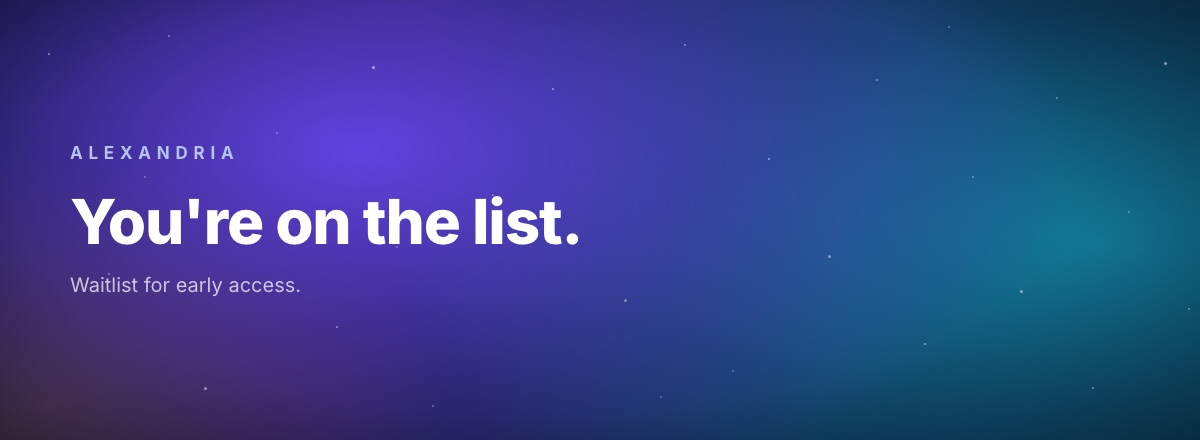
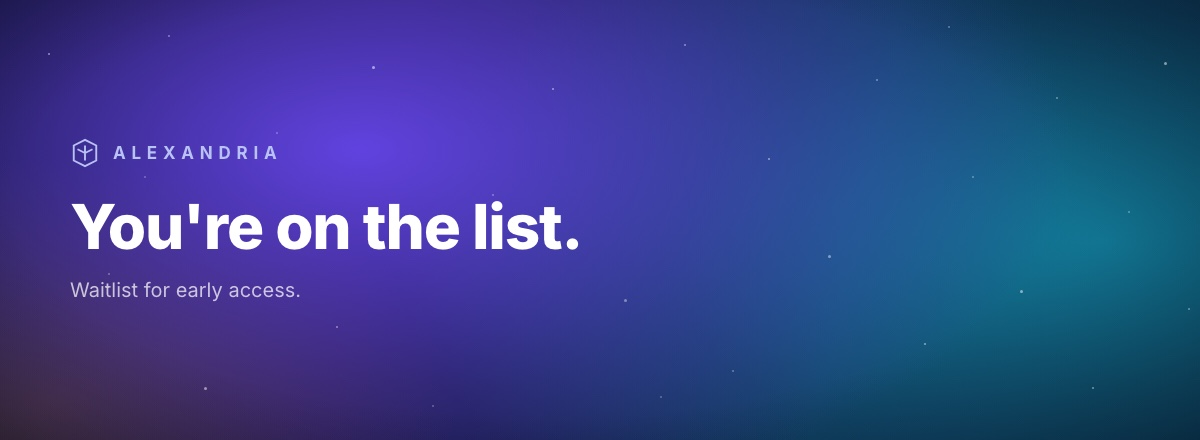
feat(email): carry both marks — Alexandria in the hero, both in the footer
The email named Alexandria and IFFTU in text but showed neither mark. Now
the hexagon sits beside the wordmark in the hero art, and the footer carries
a lockup above the links: the hexagon with ALEXANDRIA, the `//` with AN
IFFTU PROJECT.

Neither mark is invented. The hexagon is the one from the site nav; the `//`
is what ifftu.dev declares as its logo in its Organization schema — its own
favicon, in its own red — with the black plate dropped so it sits on the
email's background instead of a square of its own.

Both are rendered to PNG at 3x by scripts/generate-email-logos.py, because
Gmail strips inline SVG, and sized with HTML width/height attributes because
Outlook ignores CSS sizing on images. Alt text carries "Alexandria" and
"IFFTU" for the many clients that block images by default — which is also
why the words are real text beside the marks rather than baked into them.

The hero mark is drawn into the artwork instead, since that becomes a flat
JPEG and cannot reference anything.

Changed region(s): [[0.0617, 0.4432, 0.4933, 0.5909], [0.0617, 0.6205, 0.2467, 0.6795], [0.0617, 0.325, 0.2467, 0.3841]]

diff --git a/netlify/email/confirmation.ts b/netlify/email/confirmation.ts
@@ -230,6 +230,24 @@ const TEMPLATE = `<!DOCTYPE html>
 
     <!-- FOOTER -->
     <tr><td style="height:22px;line-height:22px;font-size:0;">&nbsp;</td></tr>
+    <tr><td class="px" align="center" style="padding:0 40px 14px 40px;">
+      <table role="presentation" cellpadding="0" cellspacing="0" border="0" style="margin:0 auto;">
+        <tr>
+          <td style="padding:0 9px 0 0;" valign="middle">
+            <img src="https://alexandria.ifftu.dev/email/email-mark-alexandria.png" width="22" height="22" alt="Alexandria" style="display:block;width:22px;height:22px;border:0;">
+          </td>
+          <td style="padding:0 18px 0 0;font-family:Arial,Helvetica,sans-serif;font-size:12px;line-height:20px;color:#93A3BC;letter-spacing:0.06em;" valign="middle">
+            ALEXANDRIA
+          </td>
+          <td style="padding:0 8px 0 0;" valign="middle">
+            <img src="https://alexandria.ifftu.dev/email/email-mark-ifftu.png" width="20" height="20" alt="IFFTU" style="display:block;width:20px;height:20px;border:0;">
+          </td>
+          <td style="font-family:Arial,Helvetica,sans-serif;font-size:12px;line-height:20px;color:#93A3BC;letter-spacing:0.06em;" valign="middle">
+            AN IFFTU PROJECT
+          </td>
+        </tr>
+      </table>
+    </td></tr>
     <tr><td class="px" align="center" style="padding:0 40px;">
       <p style="margin:0 0 10px 0;font-family:Arial,Helvetica,sans-serif;font-size:12px;line-height:20px;color:#93A3BC;">
         <a href="https://alexandria.ifftu.dev" style="color:#93A3BC;text-decoration:underline;">alexandria.ifftu.dev</a>

diff --git a/scripts/generate-email-logos.py b/scripts/generate-email-logos.py
@@ -1,0 +1,79 @@
+#!/usr/bin/env python3
+"""
+Render the two marks the confirmation email uses.
+
+    python3 scripts/generate-email-logos.py
+
+Mail clients do not render inline SVG — Gmail strips it outright — so the marks
+have to be raster, absolute-URL images. Both are drawn at 3x the size they are
+displayed at, on transparent backgrounds, so they stay crisp on retina and sit on
+whatever the surrounding table cell is coloured.
+
+Sources, so neither is invented here:
+  Alexandria  the hexagon from the site nav (layouts/landing.vue)
+  IFFTU       the `//` mark ifftu.dev declares as its logo in Organization
+              schema (its favicon.svg), in the same red
+"""
+import pathlib
+import shutil
+import subprocess
+import sys
+
+ROOT = pathlib.Path(__file__).resolve().parent.parent
+OUT = ROOT / 'public' / 'email'
+CHROME = '/Applications/Google Chrome.app/Contents/MacOS/Google Chrome'
+
+SIZE = 96  # displayed at 32px, so 3x
+
+ALEXANDRIA = """
+<svg width="96" height="96" viewBox="0 0 32 32" fill="none"
+     xmlns="http://www.w3.org/2000/svg">
+  <path d="M16 2L4 8v16l12 6 12-6V8L16 2z" stroke="#8B85FF" stroke-width="2" fill="none"/>
+  <path d="M16 8v16M8 12l8 4 8-4" stroke="#8B85FF" stroke-width="2"/>
+</svg>
+"""
+
+# Their own favicon draws `//` in monospace bold; keeping the glyph and the red,
+# dropping the black plate so it sits on the email's own background.
+IFFTU = """
+<svg width="96" height="96" viewBox="0 0 32 32" xmlns="http://www.w3.org/2000/svg">
+  <text x="2" y="24" font-family="ui-monospace, SFMono-Regular, Menlo, monospace"
+        font-weight="bold" font-size="21" fill="#FF2200">//</text>
+</svg>
+"""
+
+
+def render(name: str, svg: str, tmp: pathlib.Path) -> None:
+    page = tmp / f'{name}.html'
+    page.write_text(
+        '<!doctype html><meta charset="utf-8">'
+        '<style>html,body{margin:0;padding:0;width:%dpx;height:%dpx;background:transparent}</style>%s'
+        % (SIZE, SIZE, svg)
+    )
+    dest = OUT / f'{name}.png'
+    subprocess.run([
+        CHROME, '--headless', '--disable-gpu', '--hide-scrollbars',
+        '--default-background-color=00000000',  # keep the alpha channel
+        '--force-device-scale-factor=1', f'--window-size={SIZE},{SIZE}',
+        f'--screenshot={dest}', page.as_uri(),
+    ], check=True, capture_output=True)
+    print(f'  {dest.relative_to(ROOT)}  {dest.stat().st_size // 1024} KB')
+
+
+def main() -> int:
+    if not pathlib.Path(CHROME).exists():
+        print(f'Chrome not found at {CHROME}', file=sys.stderr)
+        return 1
+
+    tmp = ROOT / '.logo-tmp'
+    tmp.mkdir(exist_ok=True)
+    try:
+        render('email-mark-alexandria', ALEXANDRIA, tmp)
+        render('email-mark-ifftu', IFFTU, tmp)
+    finally:
+        shutil.rmtree(tmp, ignore_errors=True)
+    return 0
+
+
+if __name__ == '__main__':
+    sys.exit(main())

diff --git a/scripts/generate-email-hero.py b/scripts/generate-email-hero.py
@@ -82,16 +82,25 @@ def html(font_b64: str) -> str:
   .stars i {{ position: absolute; border-radius: 50%; background: #fff; }}
   .copy {{ position: absolute; inset: 0; padding: 0 70px; display: flex; flex-direction: column; justify-content: center; }}
   .eyebrow {{
+    display: flex; align-items: center; gap: 13px;
     font-size: 17px; font-weight: 700; letter-spacing: 0.34em;
     color: #b9c2f5; margin-bottom: 26px;
   }}
+  /* The nav's hexagon, drawn rather than linked — this becomes a flat JPEG, so
+     the mark has to be part of the artwork. */
+  .eyebrow svg {{ width: 30px; height: 30px; flex: none; }}
   h1 {{ font-size: 62px; font-weight: 800; letter-spacing: -0.02em; color: #fff; line-height: 1.05; }}
   .sub {{ margin-top: 18px; font-size: 20px; font-weight: 400; color: rgba(255,255,255,0.72); }}
 </style>
 <div class="wash"></div>
 <div class="stars">{stars_css()}</div>
 <div class="copy">
-  <div class="eyebrow">{EYEBROW}</div>
+  <div class="eyebrow">
+    <svg viewBox="0 0 32 32" fill="none" stroke="#b9c2f5" stroke-width="2">
+      <path d="M16 2L4 8v16l12 6 12-6V8L16 2z"/><path d="M16 8v16M8 12l8 4 8-4"/>
+    </svg>
+    <span>{EYEBROW}</span>
+  </div>
   <h1>{TITLE}</h1>
   <div class="sub">{SUBTITLE}</div>
 </div>
